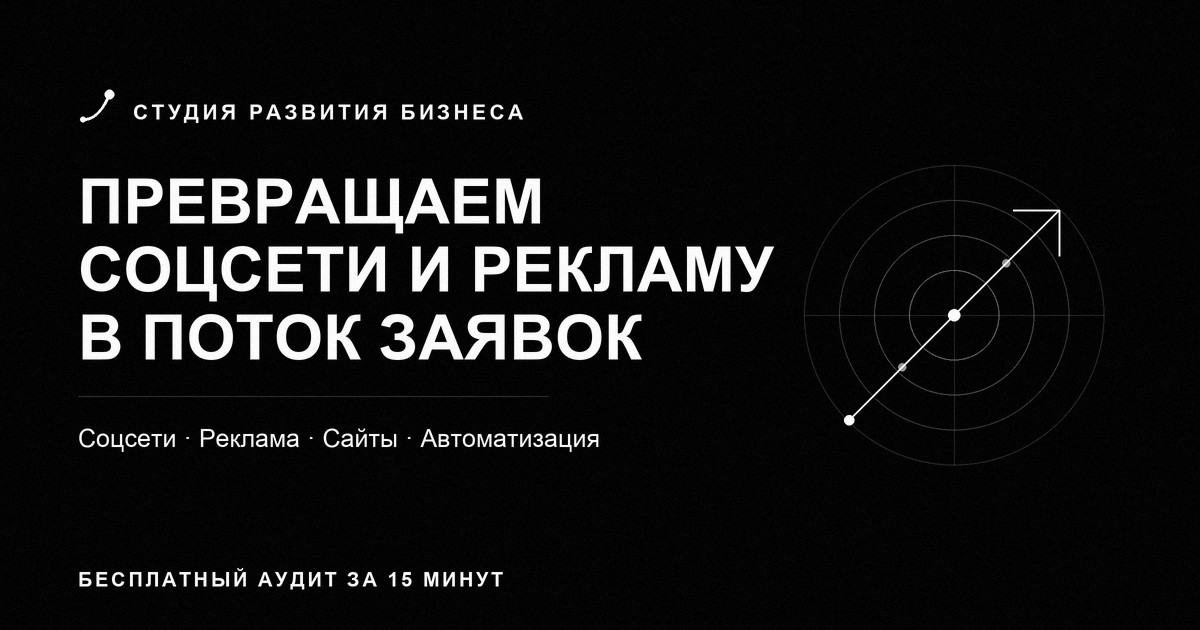
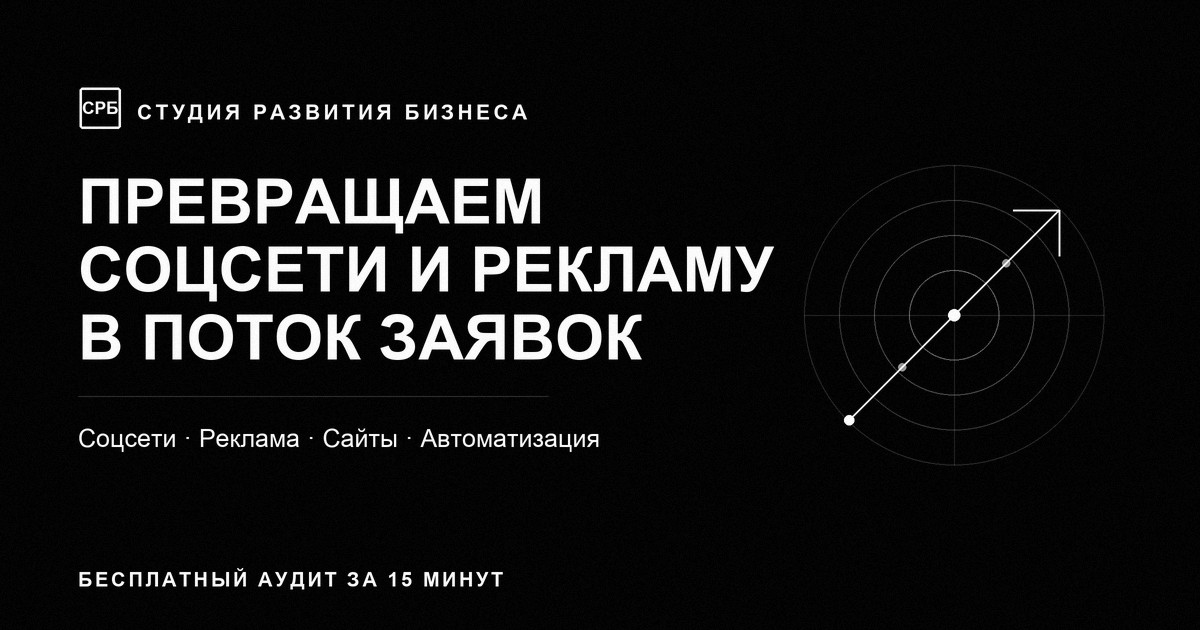
Монограмма СРБ, чистый тикер, реальная модель работы
- логотип: монограмма СРБ в рамке; фавикон — залитый вариант для мелкого размера
- бегущая строка: убраны звёздочки, слова разводит воздух
- блок «Как работаем» переписан под сдачу проекта: Аудит → Смета → Настройка → Сдача
- добавлен блок с двумя сценариями после сдачи: ведёте сами или ведём мы за фикс в месяц
- OG-картинка перерисована с монограммой

Changed region(s): [[0.0617, 0.1206, 0.4317, 0.2111]]

diff --git a/index.html b/index.html
@@ -37,10 +37,11 @@
   <header class="header">
     <div class="shell header__inner">
       <a href="#top" class="logo">
-        <svg class="logo__mark" viewBox="0 0 40 40" fill="none" aria-hidden="true">
-          <path d="M5 33.5 C 15 33.5, 25 25.5, 31.5 8.5" stroke="currentColor" stroke-width="3.4" stroke-linecap="round"/>
-          <circle cx="31.5" cy="8.5" r="4.8" fill="currentColor"/>
-          <circle cx="5" cy="33.5" r="2.9" fill="currentColor"/>
+        <svg class="logo__mark" viewBox="0 0 44 44" fill="none" aria-hidden="true">
+          <rect x="1.4" y="1.4" width="41.2" height="41.2" rx="3" stroke="currentColor" stroke-width="2.6"/>
+          <text x="22" y="22.6" font-family="Manrope, Arial, sans-serif" font-weight="800" font-size="17.5"
+            textLength="27" lengthAdjust="spacingAndGlyphs" text-anchor="middle"
+            dominant-baseline="central" fill="currentColor">СРБ</text>
         </svg>
         <span class="logo__text" data-brand>Студия развития бизнеса</span>
       </a>
@@ -83,12 +84,12 @@
     <div class="ticker" aria-hidden="true">
       <!-- 6 копий: строка должна быть шире любого монитора, иначе в цикле появится разрыв -->
       <div class="ticker__row">
-        <span>Соцсети <i>✦</i> Автоматизация <i>✦</i> Сайты <i>✦</i> Яндекс Директ <i>✦</i> VK Реклама <i>✦</i> Фото и видео <i>✦</i></span>
-        <span>Соцсети <i>✦</i> Автоматизация <i>✦</i> Сайты <i>✦</i> Яндекс Директ <i>✦</i> VK Реклама <i>✦</i> Фото и видео <i>✦</i></span>
-        <span>Соцсети <i>✦</i> Автоматизация <i>✦</i> Сайты <i>✦</i> Яндекс Директ <i>✦</i> VK Реклама <i>✦</i> Фото и видео <i>✦</i></span>
-        <span>Соцсети <i>✦</i> Автоматизация <i>✦</i> Сайты <i>✦</i> Яндекс Директ <i>✦</i> VK Реклама <i>✦</i> Фото и видео <i>✦</i></span>
-        <span>Соцсети <i>✦</i> Автоматизация <i>✦</i> Сайты <i>✦</i> Яндекс Директ <i>✦</i> VK Реклама <i>✦</i> Фото и видео <i>✦</i></span>
-        <span>Соцсети <i>✦</i> Автоматизация <i>✦</i> Сайты <i>✦</i> Яндекс Директ <i>✦</i> VK Реклама <i>✦</i> Фото и видео <i>✦</i></span>
+        <span class="ticker__group"><i>Соцсети</i><i>Автоматизация</i><i>Сайты</i><i>Яндекс Директ</i><i>VK Реклама</i><i>Фото и видео</i></span>
+        <span class="ticker__group"><i>Соцсети</i><i>Автоматизация</i><i>Сайты</i><i>Яндекс Директ</i><i>VK Реклама</i><i>Фото и видео</i></span>
+        <span class="ticker__group"><i>Соцсети</i><i>Автоматизация</i><i>Сайты</i><i>Яндекс Директ</i><i>VK Реклама</i><i>Фото и видео</i></span>
+        <span class="ticker__group"><i>Соцсети</i><i>Автоматизация</i><i>Сайты</i><i>Яндекс Директ</i><i>VK Реклама</i><i>Фото и видео</i></span>
+        <span class="ticker__group"><i>Соцсети</i><i>Автоматизация</i><i>Сайты</i><i>Яндекс Директ</i><i>VK Реклама</i><i>Фото и видео</i></span>
+        <span class="ticker__group"><i>Соцсети</i><i>Автоматизация</i><i>Сайты</i><i>Яндекс Директ</i><i>VK Реклама</i><i>Фото и видео</i></span>
       </div>
     </div>
 
@@ -148,22 +149,35 @@
           </article>
           <article class="step">
             <span class="step__num">02</span>
-            <h3>План</h3>
-            <p>Собираем решение под вашу задачу и нишу. Понятные сроки, фиксированная стоимость, никаких сюрпризов по ходу.</p>
+            <h3>Смета</h3>
+            <p>Фиксируем состав работ, сроки и стоимость до старта. Дальше цена не растёт — никаких доплат по ходу.</p>
           </article>
           <article class="step">
             <span class="step__num">03</span>
-            <h3>Запуск</h3>
-            <p>Настраиваем, оформляем, запускаем. Каждый этап согласовываем — вы всегда видите, что происходит.</p>
+            <h3>Настройка</h3>
+            <p>Собираем всё под ключ: соцсети, рекламу, автоматизацию, сайт и контент. Каждый этап согласовываем.</p>
           </article>
           <article class="step">
             <span class="step__num">04</span>
-            <h3>Результат</h3>
-            <p>Отчитываемся цифрами: заявки, охваты, стоимость клиента. Усиливаем то, что сработало, отключаем лишнее.</p>
+            <h3>Сдача</h3>
+            <p>Передаём готовую систему и показываем, как ей пользоваться. Окончательный расчёт — только после приёмки работы.</p>
           </article>
         </div>
 
-        <p class="claim">Не продаём часы работы — отвечаем за результат</p>
+        <p class="claim">Сдаём результат — и только потом решаете, вести ли дальше</p>
+
+        <div class="after">
+          <article class="after__card">
+            <span class="after__tag">Дальше — вариант 1</span>
+            <h3>Ведёте сами</h3>
+            <p>Всё настроено, отлажено и передано вам. Система работает без нас, ежемесячных платежей нет. Это нормальный сценарий, а не «недоработка».</p>
+          </article>
+          <article class="after__card">
+            <span class="after__tag">Дальше — вариант 2</span>
+            <h3>Ведём мы</h3>
+            <p>Если захотите, берём ведение на себя за фиксированную сумму в месяц. Обсуждаем это после сдачи — когда вы уже видите результат, а не авансом.</p>
+          </article>
+        </div>
       </div>
     </section>
 
@@ -209,10 +223,11 @@
   <footer class="footer">
     <div class="shell footer__inner">
       <span class="logo">
-        <svg class="logo__mark" viewBox="0 0 40 40" fill="none" aria-hidden="true">
-          <path d="M5 33.5 C 15 33.5, 25 25.5, 31.5 8.5" stroke="currentColor" stroke-width="3.4" stroke-linecap="round"/>
-          <circle cx="31.5" cy="8.5" r="4.8" fill="currentColor"/>
-          <circle cx="5" cy="33.5" r="2.9" fill="currentColor"/>
+        <svg class="logo__mark" viewBox="0 0 44 44" fill="none" aria-hidden="true">
+          <rect x="1.4" y="1.4" width="41.2" height="41.2" rx="3" stroke="currentColor" stroke-width="2.6"/>
+          <text x="22" y="22.6" font-family="Manrope, Arial, sans-serif" font-weight="800" font-size="17.5"
+            textLength="27" lengthAdjust="spacingAndGlyphs" text-anchor="middle"
+            dominant-baseline="central" fill="currentColor">СРБ</text>
         </svg>
         <span class="logo__text" data-brand>Студия развития бизнеса</span>
       </span>

diff --git a/css/style.css b/css/style.css
@@ -195,15 +195,19 @@ i { font-style: normal; }
   will-change: transform;
 }
 .ticker:hover .ticker__row { animation-play-state: paused; }
-.ticker__row span {
+/* разделителей нет — слова разводит воздух */
+.ticker__group {
+  display: flex;
+  gap: 58px;
+  padding-right: 58px;
+}
+.ticker__group i {
   font-size: clamp(15px, 1.6vw, 21px);
   font-weight: 800;
   text-transform: uppercase;
-  letter-spacing: 0.01em;
-  padding-right: 20px;
+  letter-spacing: 0.02em;
   white-space: nowrap;
 }
-.ticker__row i { opacity: 0.35; margin: 0 7px; }
 @keyframes slide {
   from { transform: translateX(0); }
   to { transform: translateX(-50%); }   /* ровно 3 копии из 6 — стык незаметен */
@@ -316,6 +320,34 @@ i { font-style: normal; }
   margin-bottom: 12px;
 }
 .step p { font-size: 14.5px; opacity: 0.62; }
+
+/* два сценария после сдачи */
+.after {
+  display: grid;
+  grid-template-columns: repeat(2, 1fr);
+  gap: 24px;
+  margin-top: 46px;
+}
+.after__card {
+  border: 1px solid var(--line);
+  border-radius: 4px;
+  padding: 30px 30px 34px;
+}
+.after__tag {
+  display: block;
+  font-size: 11.5px;
+  font-weight: 500;
+  letter-spacing: 0.16em;
+  text-transform: uppercase;
+  opacity: 0.45;
+  margin-bottom: 20px;
+}
+.after__card h3 {
+  font-size: clamp(19px, 1.9vw, 24px);
+  text-transform: uppercase;
+  margin-bottom: 12px;
+}
+.after__card p { font-size: 14.5px; opacity: 0.6; }
 
 .claim {
   margin-top: 68px;
@@ -522,6 +554,9 @@ i { font-style: normal; }
   .step__num { margin-bottom: 20px; }
   .step h3 { font-size: 19px; }
   .claim { margin-top: 48px; }
+  .after { grid-template-columns: 1fr; gap: 16px; margin-top: 34px; }
+  .after__card { padding: 24px 22px 26px; }
+  .ticker__group { gap: 40px; padding-right: 40px; }
 
   .case { padding: 28px 22px 32px; }
   .case__art { width: 46%; right: 10px; top: 10px; }
